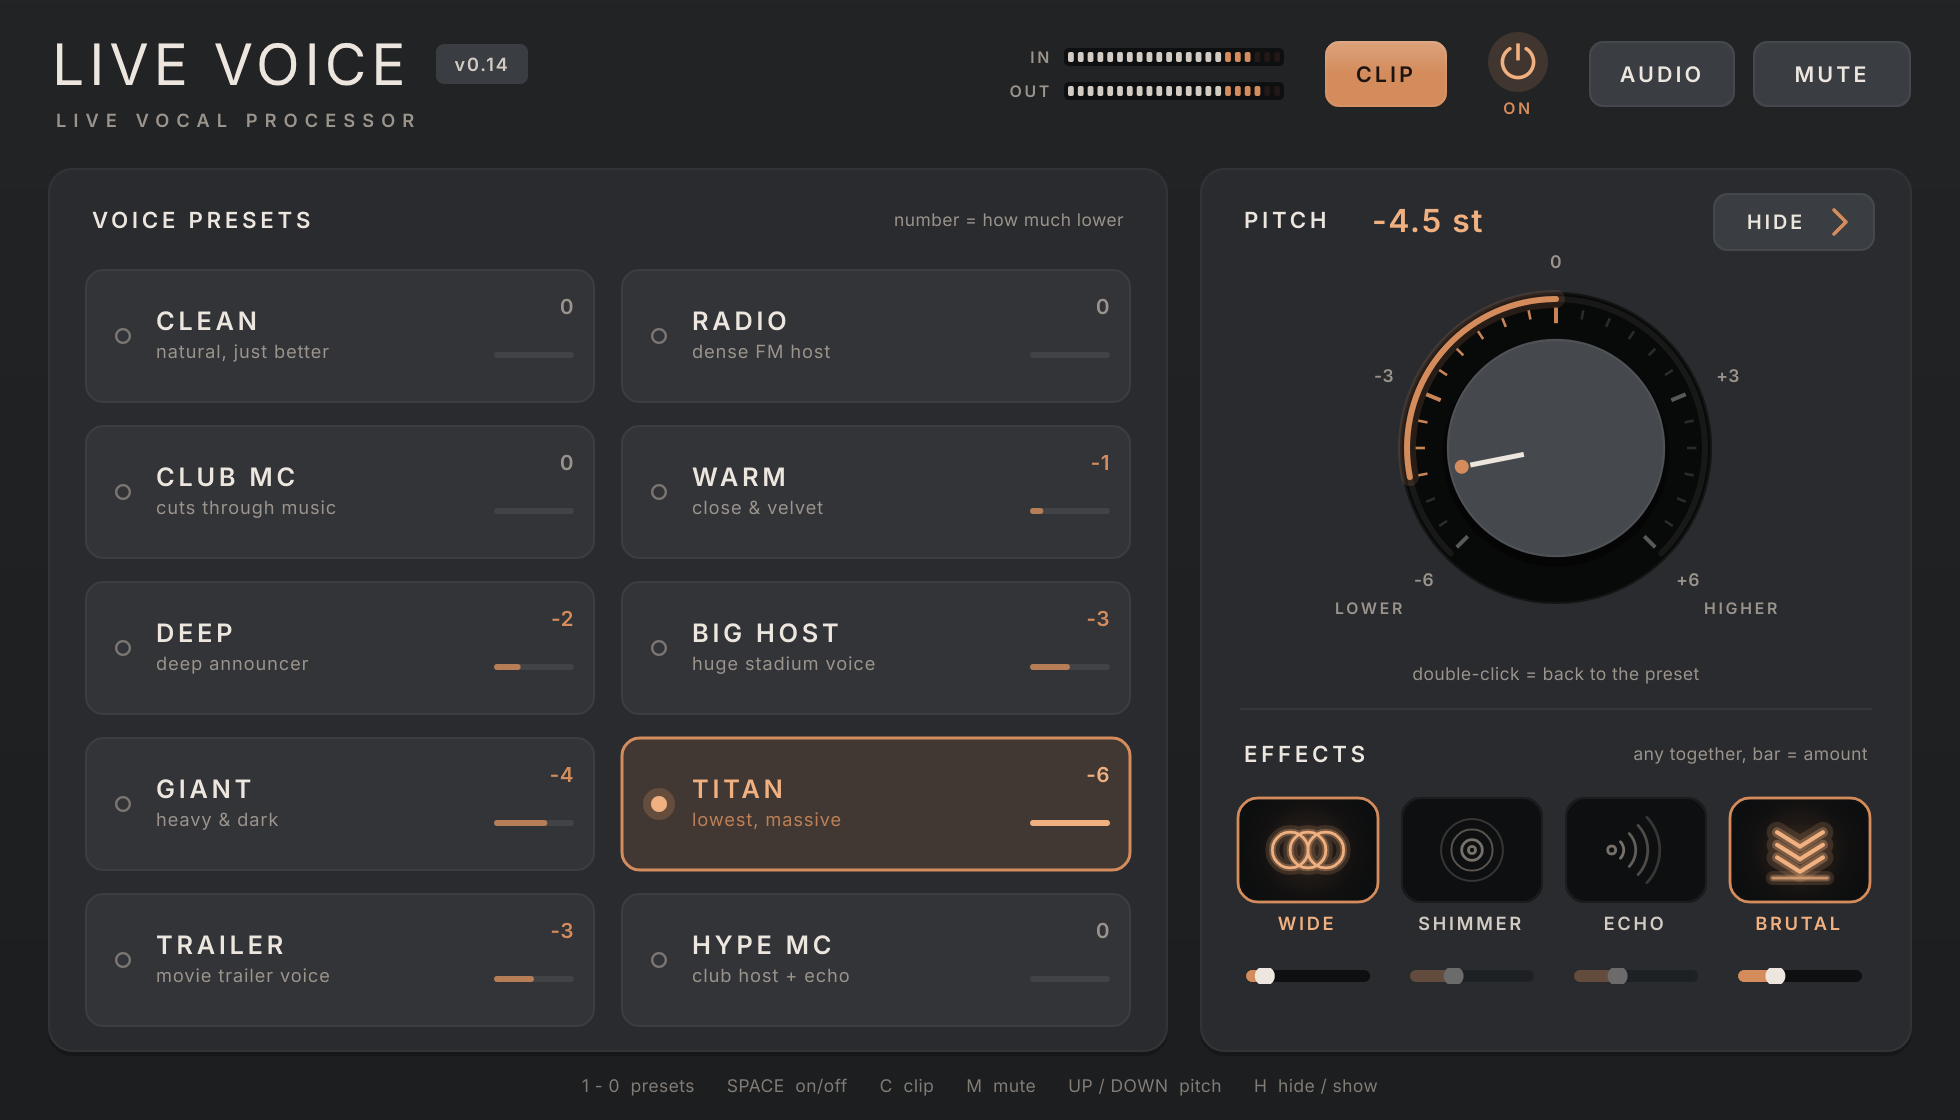
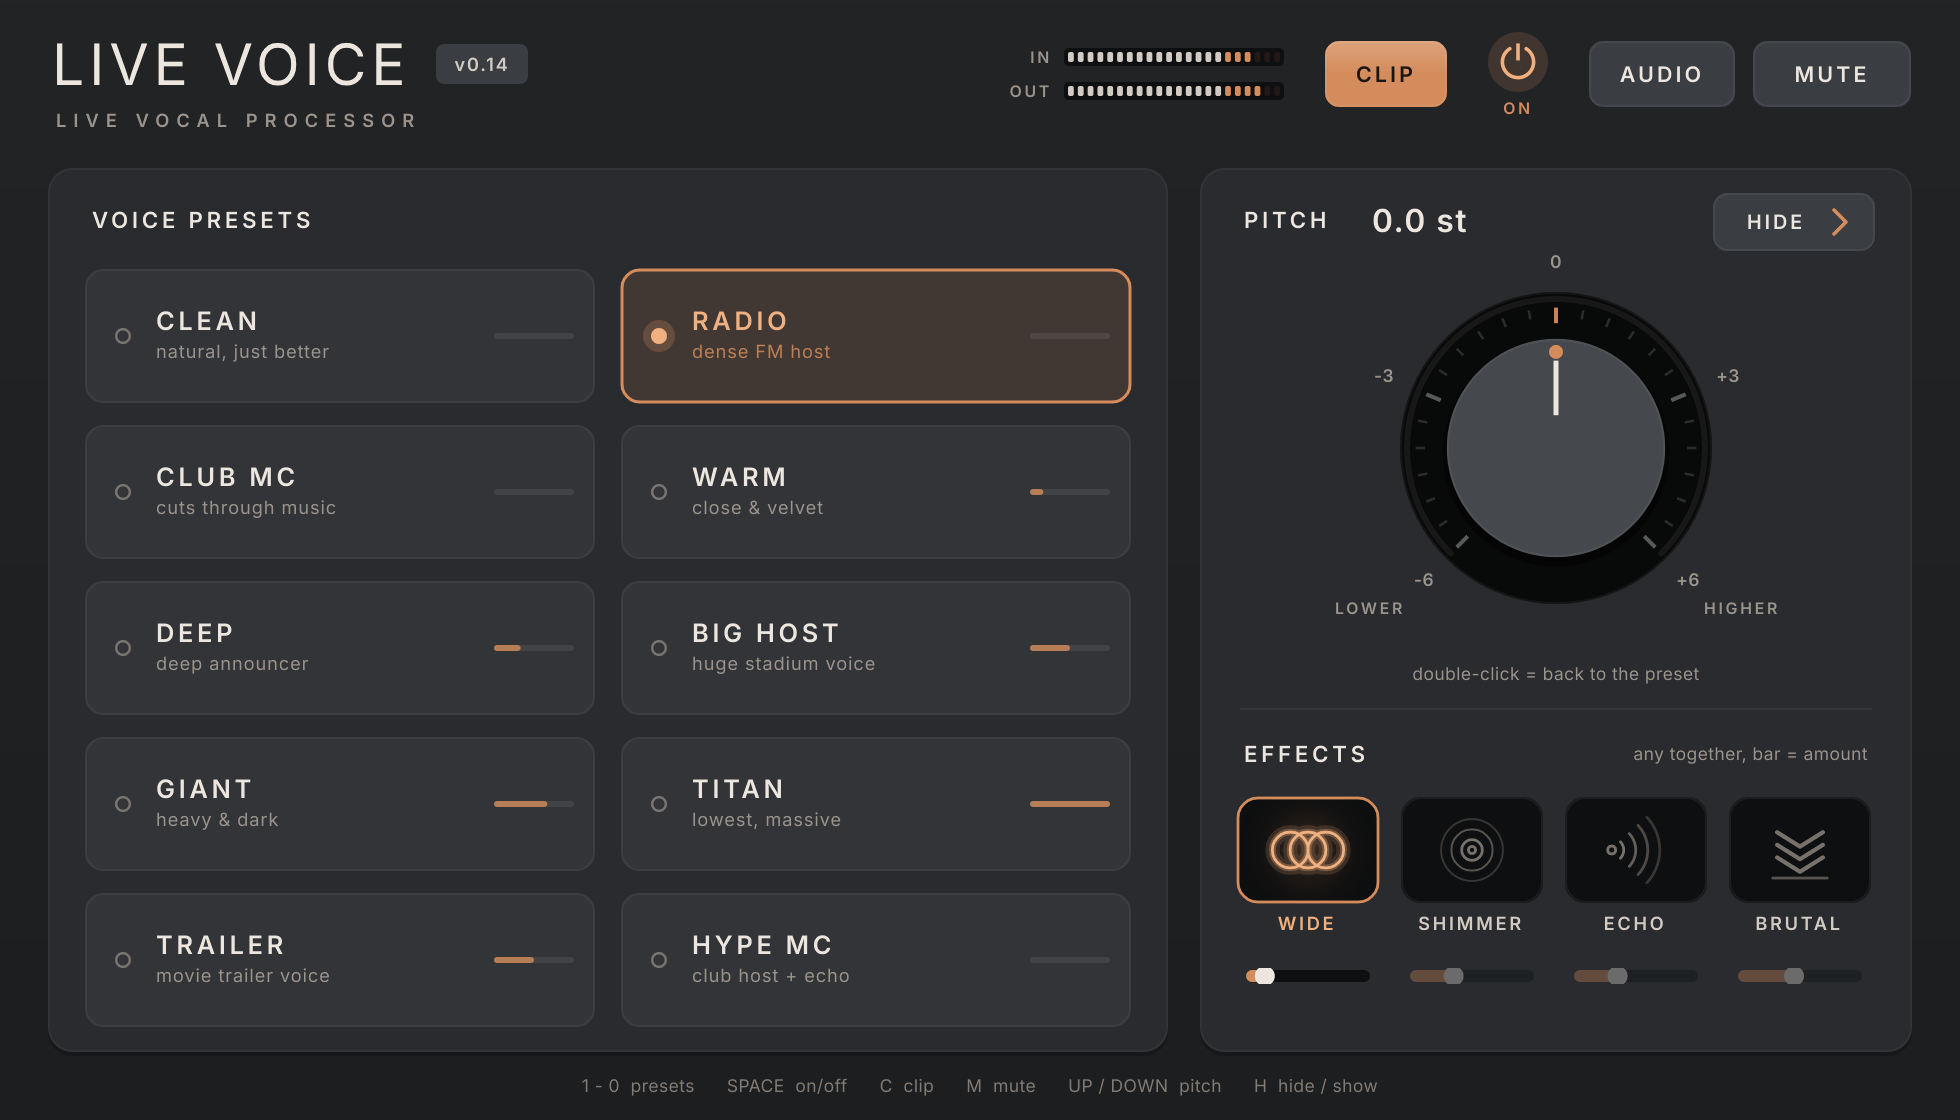
LIVE VOICE 0.14: softer lowering (max -6), less boom, no numbers on tiles
- PITCH -6..+6; presets lower about half as much; DEEP / BRUTAL low end softer; HPF follows lowering
- tile numbers and the "number = how much lower" caption removed (depth bar stays)
- docs updated

Claude-Session: https://claude.ai/code/session_01Hux4b5APwPNLszPe84Rua1

diff --git a/Source/PluginEditor.cpp b/Source/PluginEditor.cpp
@@ -393,9 +393,6 @@ void VoiceTile::paintButton (Graphics& g, bool over, bool)
         auto led = Rectangle<float> (9, 9).withCentre ({ r.getX() + 22.0f, r.getY() + 24.0f });
         if (on) { g.setColour (Palette::accent.withAlpha (0.25f)); g.fillEllipse (led.expanded (4)); g.setColour (Palette::glow); g.fillEllipse (led); }
         else { g.setColour (Palette::textDim.withAlpha (0.7f)); g.drawEllipse (led.reduced (0.6f), 1.2f); }
-        g.setColour (v.pitch < 0 ? (on ? Palette::glow : Palette::accent) : Palette::textDim);
-        g.setFont (uiFont (15.0f, true));
-        g.drawText (v.pitch < 0 ? String (roundToInt (v.pitch)) : String ("0"), r.toNearestInt().withHeight (48).reduced (16, 0), Justification::centredRight);
         g.setColour (on ? Palette::glow : Palette::text);
         g.setFont (uiFont (21.0f, true, 0.10f));
         g.drawText (v.name, r.toNearestInt().withSizeKeepingCentre ((int) r.getWidth() - 12, 30).translated (0, -10), Justification::centred);
@@ -423,12 +420,9 @@ void VoiceTile::paintButton (Graphics& g, bool over, bool)
     // how much lower: a small depth bar + number
     auto tag = r.toNearestInt().removeFromRight (60).reduced (10, 0);
     const float depth = jlimit (0.0f, 1.0f, -v.pitch / 6.0f);
-    auto bar = Rectangle<float> ((float) tag.getX(), r.getCentreY() + 8.0f, (float) tag.getWidth(), 3.0f);
+    auto bar = Rectangle<float> ((float) tag.getX(), r.getCentreY() - 1.5f, (float) tag.getWidth(), 3.0f);
     g.setColour (Colours::white.withAlpha (0.08f)); g.fillRoundedRectangle (bar, 1.5f);
     if (depth > 0) { g.setColour (on ? Palette::glow : Palette::accent.withAlpha (0.8f)); g.fillRoundedRectangle (bar.withWidth (jmax (3.0f, bar.getWidth() * depth)), 1.5f); }
-    g.setColour (v.pitch < 0 ? (on ? Palette::glow : Palette::accent) : Palette::textDim);
-    g.setFont (uiFont (13.0f, true));
-    g.drawText (v.pitch < 0 ? String (roundToInt (v.pitch)) : String ("0"), tag.withBottom ((int) r.getCentreY() + 4), Justification::centredRight);
 }
 
 // ============================================================================
@@ -594,8 +588,6 @@ void LiveVoiceEditor::paint (Graphics& g)
 
     // VOICE PRESETS
     caption (g, "VOICE PRESETS", Rectangle<int> (voicePanel.getX() + 22, voicePanel.getY() + 14, 200, 24), Justification::centredLeft, Palette::text, 14.0f);
-    g.setColour (Palette::textDim); g.setFont (uiFont (11.0f));
-    g.drawText ("number = how much lower", Rectangle<int> (voicePanel.getRight() - 222, voicePanel.getY() + 14, 200, 24), Justification::centredRight);
 
     if (showControls())
     {

diff --git a/README-RU.md b/README-RU.md
@@ -4,12 +4,12 @@
 Делает голос «дорогим» (как на радио), позволяет крутить высоту голоса вживую и добавляет эффекты.
 Автор: Андрей Ульянов (Thematic). Сделано с помощью Claude (Anthropic).
 
-## Что внутри (0.13)
+## Что внутри (0.14)
 
 | Блок | Что делает |
 |---|---|
-| **VOICE PRESETS** | 10 готовых «коммерческих» звуков: CLEAN, RADIO, CLUB MC, HYPE MC (без понижения), WARM −2, DEEP −4, TRAILER −5, BIG HOST −6, GIANT −9, TITAN −12. Внутри: режим обработки, сила, понижение, клиппер, иногда эффект |
-| **PITCH** | Большая ручка ±12: меняет «размер» голоса (форманты), верха выше 4.5 кГц остаются от оригинала. Движок [Signalsmith Stretch](https://signalsmith-audio.co.uk/code/stretch/) (MIT) |
+| **VOICE PRESETS** | 10 готовых «коммерческих» звуков: CLEAN, RADIO, CLUB MC, HYPE MC (без понижения), WARM −1, DEEP −2, TRAILER −3, BIG HOST −3, GIANT −4, TITAN −6 (на плитке — только полоска, без цифр). Внутри: режим обработки, сила, понижение, клиппер, иногда эффект |
+| **PITCH** | Большая ручка ±6: меняет «размер» голоса (форманты), верха выше 4.5 кГц остаются от оригинала. Движок [Signalsmith Stretch](https://signalsmith-audio.co.uk/code/stretch/) (MIT) |
 | **EFFECTS** | WIDE (моно-безопасный, немного во всех пресетах кроме CLEAN), SHIMMER, ECHO, BRUTAL («тяжёлый ведущий»): включаются вместе, у каждого своя сила. PITCH + EFFECTS — один модуль, кнопка HIDE; при запуске видны только пресеты |
 | **Шапка** | IN/OUT, CLIP (клиппер), ON, AUDIO, MUTE |
 | **Шум** | Умный гейт (шум комнаты +13 дБ) + повторное подавление после компрессора: паузы тише, чем на входе |

diff --git a/AGENTS.md b/AGENTS.md
@@ -1,6 +1,6 @@
 # LIVE VOICE (repo: live-voice) — guide for AI agents and developers
 
-Read this whole file before changing anything. Current version: **0.13** (`set(LIVEVOICE_LABEL "0.13")` + `project(... VERSION 0.1.3)` in CMakeLists.txt).
+Read this whole file before changing anything. Current version: **0.14** (`set(LIVEVOICE_LABEL "0.14")` + `project(... VERSION 0.1.4)` in CMakeLists.txt).
 
 ## 1. Product
 
@@ -82,6 +82,9 @@ v0.13: effects together (params wideOn/wideAmt, shimOn/shimAmt, echoOn/echoAmt, 
 legacy, ignored), `kVoices[].fx[4]`; mono-safe WIDE (test 9); BRUTAL rebuilt (no octave-down; test 10); PITCH + EFFECTS in one
 module `controlsPanel` with HIDE (top-right) / vertical SHOW tab, key H, state property `showControls` (default false =
 presets only on first start).
+v0.14 (client: presets lowered the voice too hard into the lows): param `formant` range -6..+6; presets WARM -1, DEEP -2,
+TRAILER -3, BIG HOST -3, GIANT -4, TITAN -6; DEEP mode body +2.5 dB / mud -3.5 / HPF 80; HPF += 5 Hz per semitone down;
+BRUTAL chest +3 dB, mass layer 3..4.5 st lower; no numbers on the tiles (only the depth bar). Keep presets 'commercial'.
 
 ## 6. How it was made
 Built by the owner talking to Claude (Anthropic) in a claude.ai session; the owner described, Claude wrote the code,
